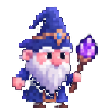
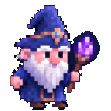
Make the wizard larger and keep his cloak solid.
He paces inside the top-right ninth of the screen, and mood changes no longer show the small badge beside him.

Changed region(s): [[0.0811, 0.027, 0.9189, 1.0]]

diff --git a/src/components/uriel-mark.tsx b/src/components/uriel-mark.tsx
@@ -15,7 +15,7 @@ type Pose =
   | "walk-left"
   | "disappointed";
 
-const art = "?v=2";
+const art = "?v=3";
 
 const sprite: Record<Pose, string> = {
   idle: `/uriel/idle.png${art}`,
@@ -28,14 +28,6 @@ const sprite: Record<Pose, string> = {
   magic: `/uriel/magic.png${art}`,
   "walk-left": `/uriel/walk-left.png${art}`,
   disappointed: `/uriel/disappointed.png${art}`,
-};
-
-const bubble: Partial<Record<Pose, string>> = {
-  happy: `/uriel/badge-happy.png${art}`,
-  eat: `/uriel/badge-hungry.png${art}`,
-  sleep: `/uriel/badge-sleepy.png${art}`,
-  magic: `/uriel/badge-magic.png${art}`,
-  sit: `/uriel/badge-play.png${art}`,
 };
 
 function moods(tone: Tone): Pose[] {
@@ -66,14 +58,18 @@ export function UrielMark({ tone }: { tone: Tone }) {
     const media = window.matchMedia("(prefers-reduced-motion: reduce)");
     const box = () => {
       const narrow = window.innerWidth < 640;
-      const size = narrow ? 64 : 84;
+      // Keep in step with .uriel-pet in globals.css.
+      const size = narrow ? 88 : 112;
       const margin = narrow ? 8 : 12;
-      // Header reserves pr-20 / pr-28. He paces inside that top-right slot.
-      const column = narrow ? 80 : 112;
-      const y = margin;
-      const maxX = Math.max(margin, window.innerWidth - size - margin);
-      const minX = Math.min(maxX, Math.max(margin, window.innerWidth - column));
-      return { minX, minY: y, maxX, maxY: y, homeX: maxX, homeY: y };
+      const width = window.innerWidth;
+      const height = window.innerHeight;
+      // Top-right cell of a 3 by 3 screen. His whole sprite stays inside it.
+      const maxX = Math.max(0, width - size - margin);
+      const minX = Math.min(width * (2 / 3), maxX);
+      const minY = margin;
+      let maxY = height / 3 - size - margin;
+      if (maxY < minY) maxY = minY;
+      return { minX, minY, maxX, maxY, homeX: maxX, homeY: minY };
     };
     const place = (next: { x: number; y: number }, ms: number) => {
       posRef.current = next;
@@ -173,7 +169,6 @@ export function UrielMark({ tone }: { tone: Tone }) {
   }, [tone, ready]);
 
   const walking = pose === "walk" || pose === "walk-left";
-  const mood = bubble[pose];
 
   return (
     <div
@@ -182,15 +177,6 @@ export function UrielMark({ tone }: { tone: Tone }) {
       style={ready ? { transform: `translate(${pos.x}px, ${pos.y}px)`, transition: travel > 0 ? `transform ${travel}ms linear` : "none" } : undefined}
       aria-hidden
     >
-      {mood ? (
-        // eslint-disable-next-line @next/next/no-img-element
-        <img
-          className="uriel-bubble"
-          src={mood}
-          alt=""
-
-        />
-      ) : null}
       <div className={walking ? "uriel-hop" : "uriel-stand"}>
         {/* eslint-disable-next-line @next/next/no-img-element */}
         <img className="uriel-sprite" src={sprite[pose]} alt="" style={flip ? { transform: "scaleX(-1)" } : undefined} />

diff --git a/src/app/globals.css b/src/app/globals.css
@@ -78,15 +78,15 @@ button, input { font: inherit; }
   left: 0;
   top: 0;
   z-index: 40;
-  width: 84px;
-  height: 84px;
+  width: 112px;
+  height: 112px;
   pointer-events: none;
 }
 
 .uriel-pet-home {
   left: auto;
   right: 12px;
-  top: 8px;
+  top: 12px;
 }
 
 .uriel-hop,
@@ -106,25 +106,14 @@ button, input { font: inherit; }
 
 .uriel-hop { animation: uriel-hop 0.36s steps(2, end) infinite; }
 
-.uriel-bubble {
-  position: absolute;
-  top: 0;
-  left: 0;
-  width: 36px;
-  height: auto;
-  image-rendering: pixelated;
-  pointer-events: none;
-}
-
 @keyframes uriel-hop {
   0%, 100% { transform: translateY(0); }
   50% { transform: translateY(-4px); }
 }
 
 @media (max-width: 640px) {
-  .uriel-pet { width: 64px; height: 64px; }
-  .uriel-pet-home { right: 8px; top: 6px; }
-  .uriel-bubble { width: 28px; }
+  .uriel-pet { width: 88px; height: 88px; }
+  .uriel-pet-home { right: 8px; top: 8px; }
 }
 
 @media (prefers-reduced-motion: reduce) {

diff --git a/src/components/desk-shell.tsx b/src/components/desk-shell.tsx
@@ -31,7 +31,7 @@ export function DeskShell({
       <LiveRefresh />
       <UrielMark tone={tone} />
       <div className="mx-auto min-h-screen max-w-6xl px-4 pb-24 pt-5 md:pb-10 md:pt-6">
-        <header className="mb-6 flex items-center justify-between gap-3 pr-20 md:pr-28">
+        <header className="mb-6 flex items-center justify-between gap-3 pr-28 sm:pr-36">
           <Link href="/" className="text-lg font-semibold tracking-tight">
             Uriel
           </Link>
